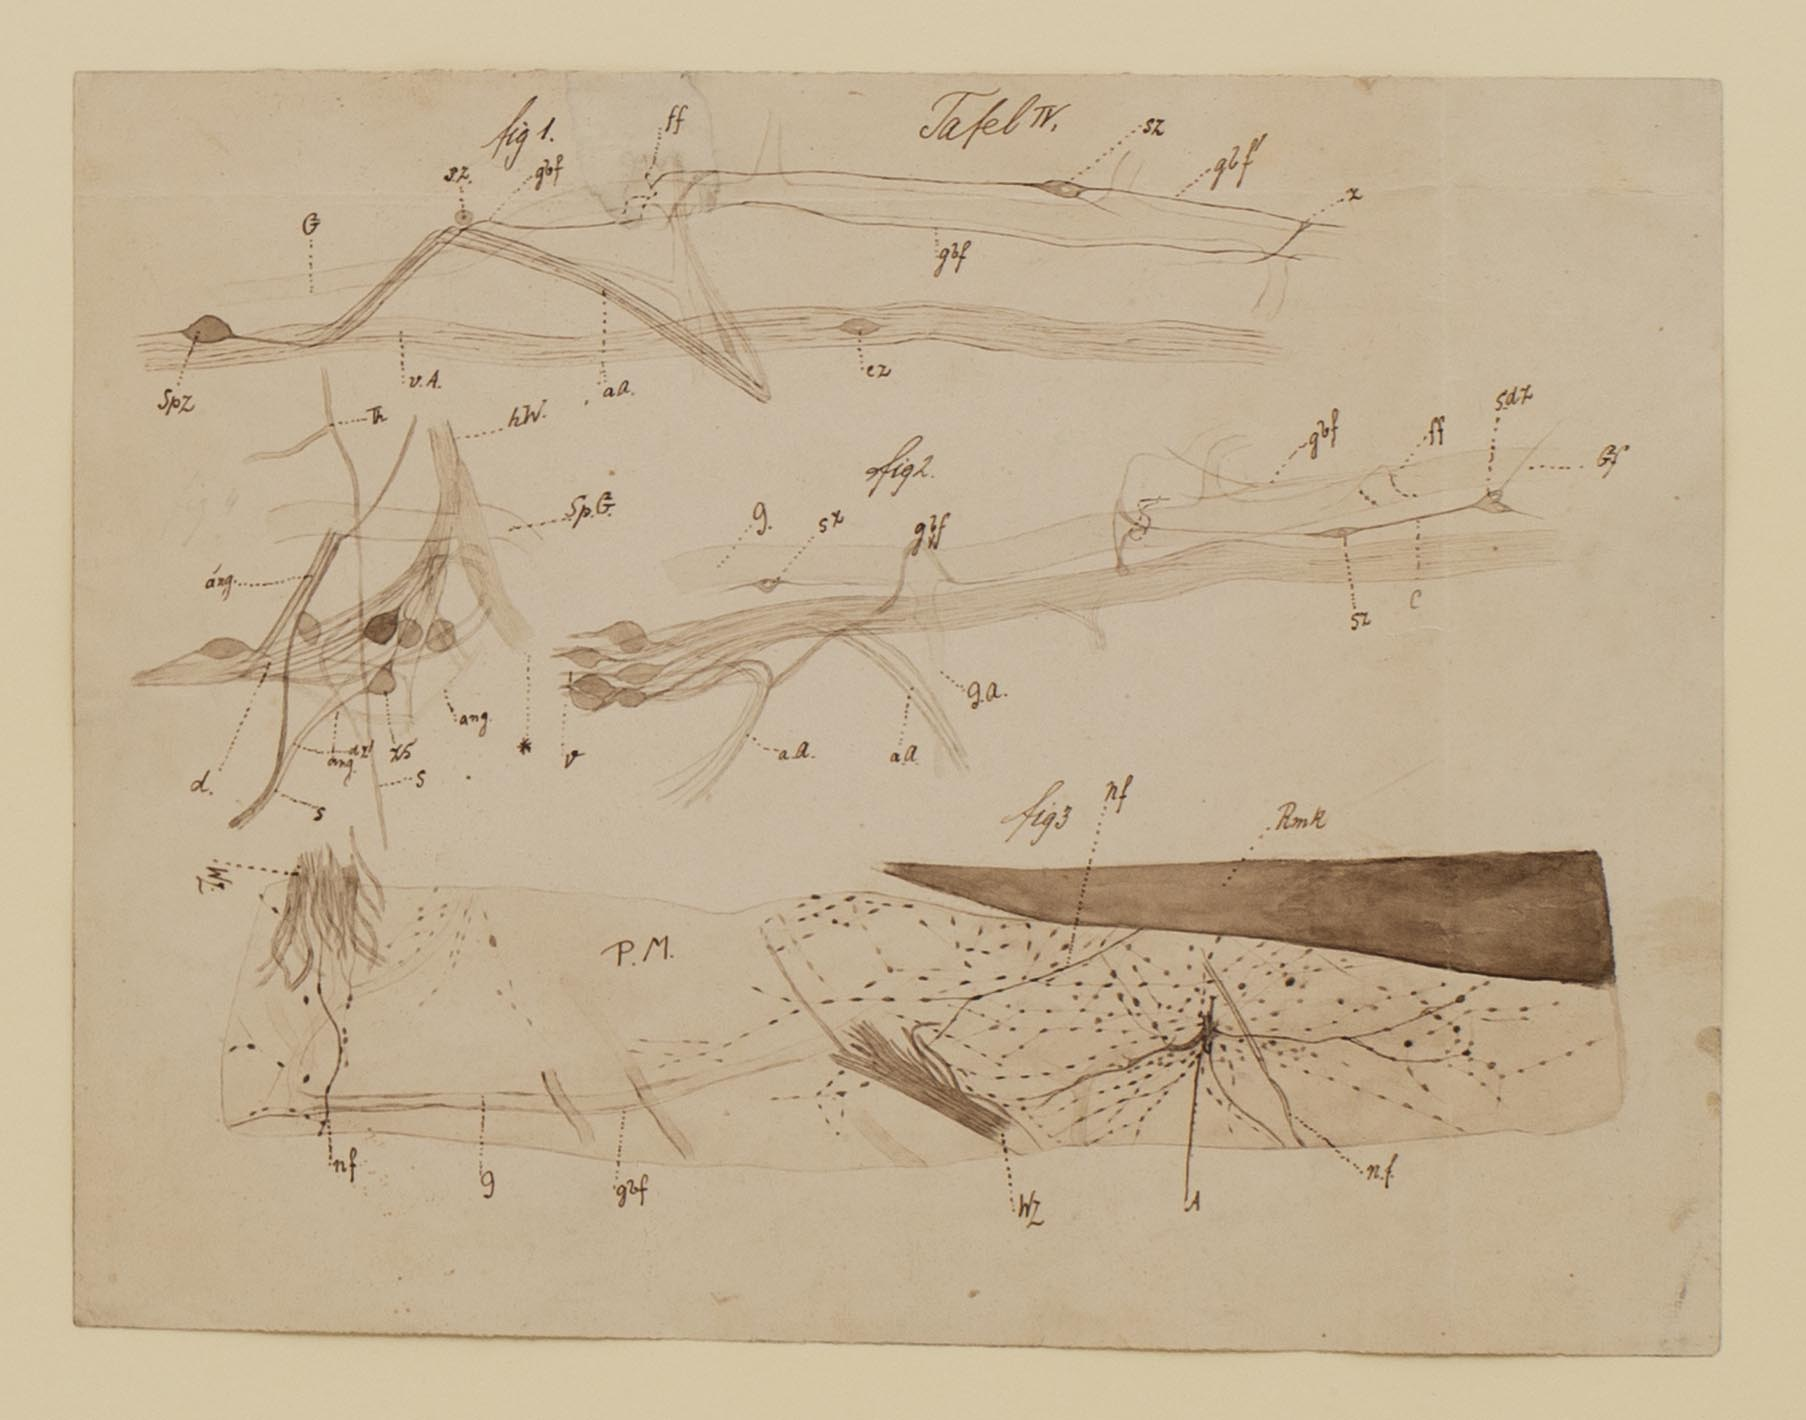
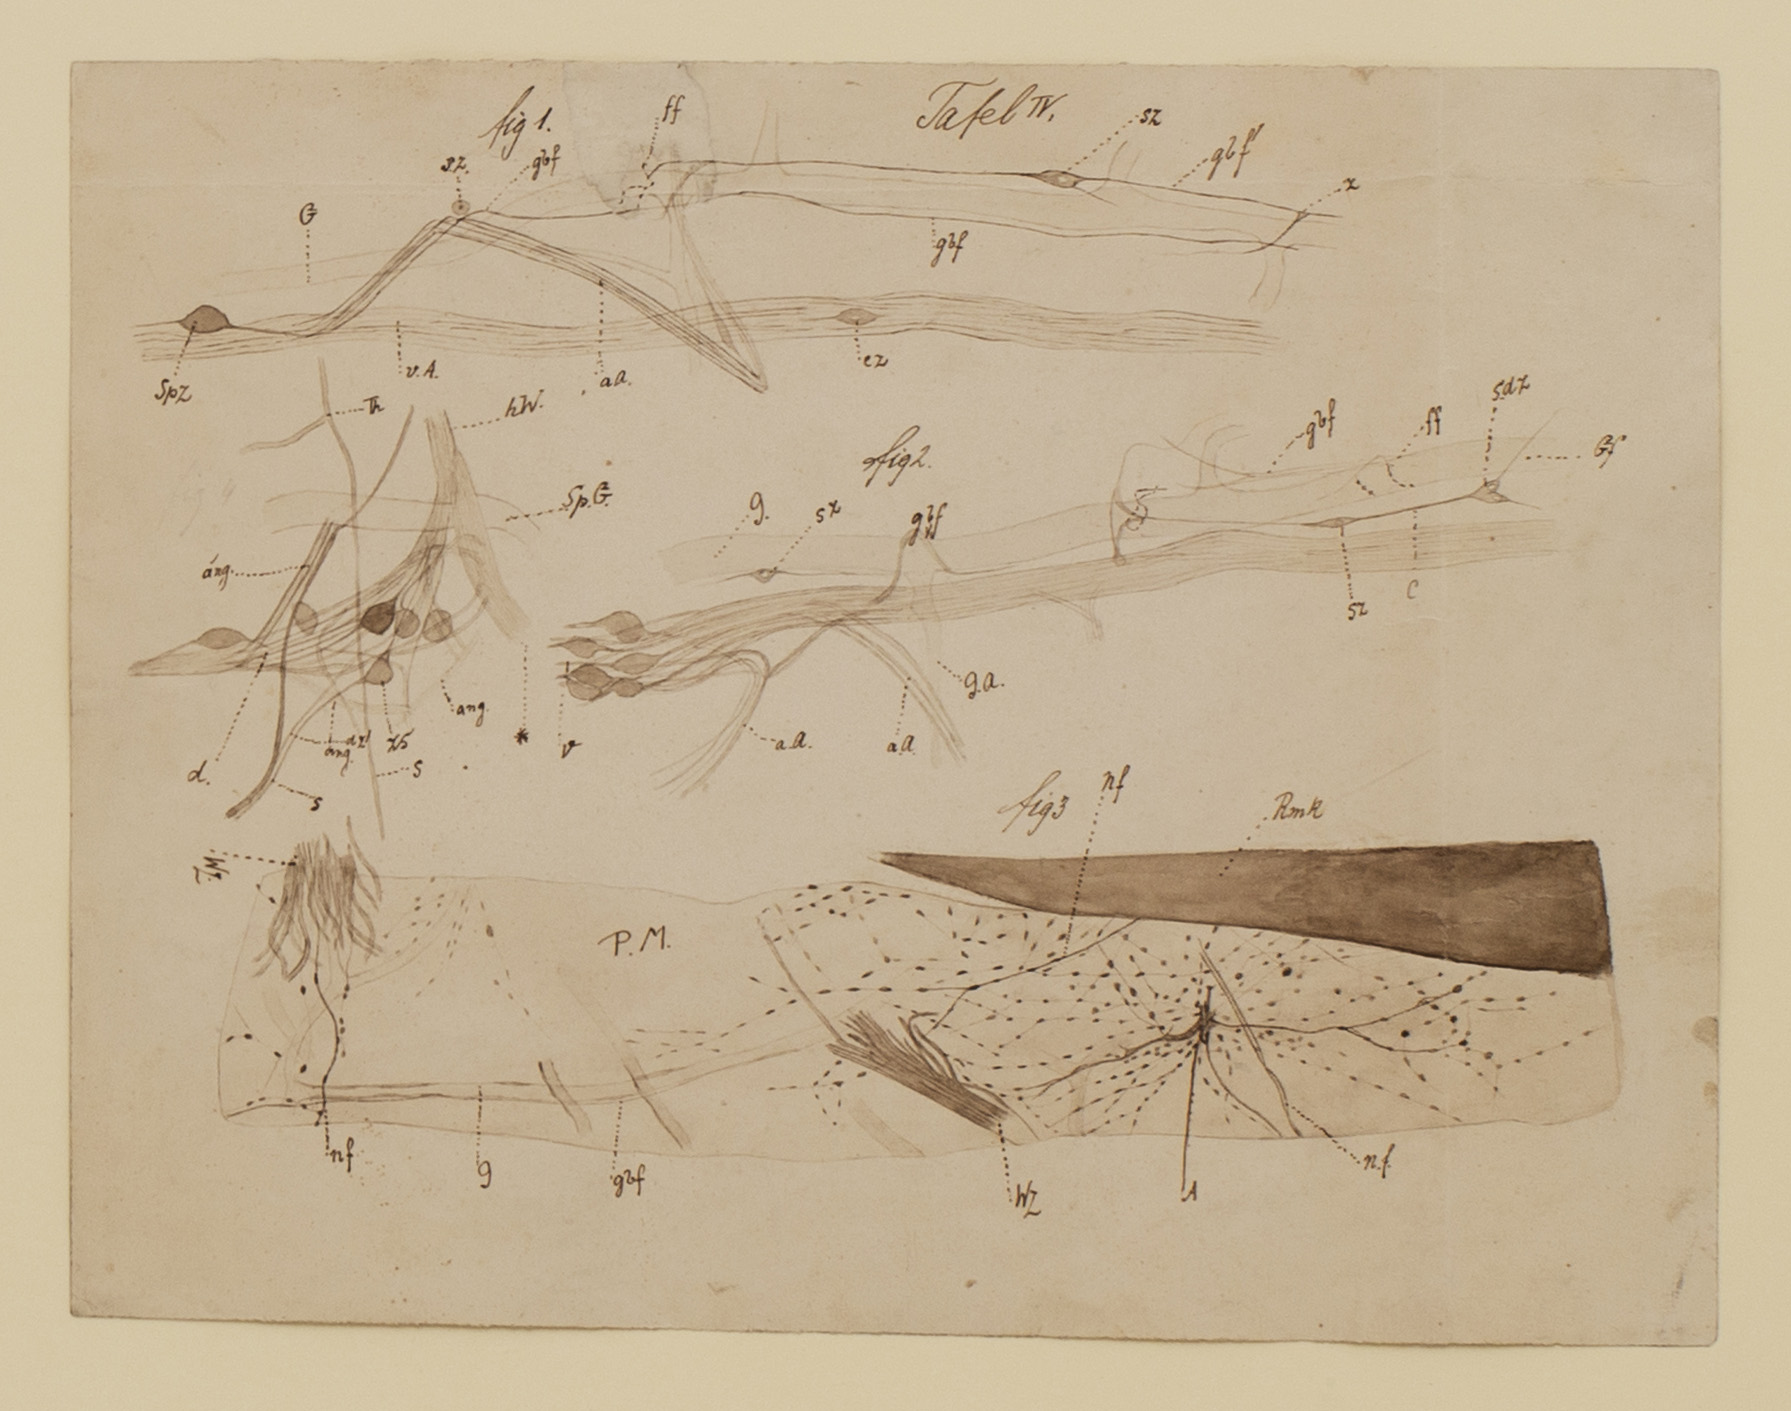
Added keyimage 4 & cleaned upp
put callouts in the right place. Changed font & tweaked color background on image box. Re-compressed jpeg at higher quality. General clean up

diff --git a/test-scroll-2/keyimage_4.html b/test-scroll-2/keyimage_4.html
@@ -1,0 +1,172 @@
+<!DOCTYPE HTML>
+<html>
+	
+	<head>
+		<title>Key Image: The Petromyzon and the Riddle of the Eel, 1876</title>
+		<!-- General stylesheet - include for each one -->
+		<link rel="stylesheet" href="css/shared.css" type="text/css" media="screen" />
+		<!-- styles for this page -->
+		<link rel="stylesheet" href="css/keyimage_4.css" type="text/css" media="screen" />
+		<!-- jquery library -->
+		<script src="https://ajax.googleapis.com/ajax/libs/jquery/1.9.1/jquery.min.js" type="text/javascript"></script>
+		<!-- zoomooz library -->
+		<script type="text/javascript" src="js/jquery.zoomooz.min.js"></script>
+	</head>
+
+	<body>
+		<div class='container'>
+		    <div class="zoomViewport">
+				<div id="container" class="zoomContainer">
+					<!-- these divs are the clickable parts of the drawing. make sure that the data-index of the zoomTarget matches the data-index of the caption. Also, the next/previous buttons go in order.
+					note: add 'data-debug=true' if you want the red boxes to appear for debugging. -->
+	        <div class="zoomTarget" data-index="1"></div>
+			<div class="zoomTarget" data-index="2"></div>
+			<div class="zoomTarget" data-index="3"></div>
+			<div class="zoomTarget" data-index="4"></div>
+			<div class="zoomTarget" data-index="5"></div>
+			<div class="zoomTarget" data-index="6"></div>
+			<div class="zoomTarget" data-index="7"></div>
+			<div class="zoomTarget" data-index="8"></div>
+			<div class="zoomTarget" data-index="9"></div>
+			<div class="zoomTarget" data-index="10"></div>
+					
+					<!-- drawing goes here -->
+          <img id="drawing" src="images/keyimage_4.jpg">	    
+				</div>
+		    </div>
+		</div>
+		<div class="sidebar">
+			<div class='caption'>
+				<div class='title'>
+					<h1>The Petromyzon and the Riddle of the Eel</h1>
+					<h2>1876</h2>	
+				</div>
+			</div>
+			
+			
+			<div class="caption" data-index="1">
+				<p>The drawing is an aggregate of various cross-sections and staining of the <i>Petromyzon</i>.</p>
+			</div>
+			<div class="caption" data-index="2">
+				<p>In Figure 1, we see a posterior view of the <i>Petromyzon's</i> nerves.</p>
+			</div>
+			<div class="caption" data-index="3">
+				<p>The spinal ganglionic cell (<i>spz</i>), an archaic aggregation of nerve cells, is located in the left corner.</p>
+			</div>
+			<div class="caption" data-index="4">
+				<p>Freud includes many elements of the nervous system, while following one nerve fiber as it accompanies a microscopic blood vessel (<i>gbf</i>).</p>
+			</div>
+			<div class="caption" data-index="5">
+				<p>Freud also illustrates a varicose axon of a nerve cell (<i>ff</i>), a part of a nerve fiber not coated with any other cells, and thus with a lower conductivity level. </p>
+			</div>
+			<div class="caption" data-index="6">
+				<p>The capacity to see nerve cells with such a high level of precision was one of the most novel elements in nerve histology and was the result of a staining technique developed by the Spanish neurobiologist Cajal. </p>
+			</div>
+			<div class="caption" data-index="7">
+				<p>Figure 2 depicts a different branch of the posterior root of the spinal ganglion of the <i>Petromyzon</i>. </p>
+			</div>
+			<div class="caption" data-index="8">
+				<p>Of particular note are the black elements, marked as <i>zs</i>, representing spinal ganglion cells firing into the sympathetic branch of the <i>Petromyzon</i>'s nerve system.</p>
+			</div>
+			<div class="caption" data-index="9">
+				<p>On the bottom of the drawing, Figure&nbsp;3 shows a network of nerve cells attached to the <i>pia mater</i>, one of the nerve's <i>meninges</i>, or coating, marked in drawing as <i>PM</i>.</p>
+			</div>
+			<div class="caption" data-index="10">
+				<p>On both the right and left hand side, branches of nerve fibers (<i>nf</i>) spread out of the spinal cord (marked <i>Rmk</i>) through a larger plexus of nerve fibers (<i>A</i>).</p>
+			
+
+			<!-- just got rid of the navigation for now. -->
+			<!-- <div id="navigation">
+				<div id="prev" class="zoomButton" data-type="prev" data-root=".zoomViewport">&lt;</div>
+				<div id="next" class="zoomButton" data-type="next" data-root=".zoomViewport">&gt;</div>
+			</div> -->
+			
+	
+		
+			
+			
+			
+			
+		</div> 
+		
+			<!-- put in a link to get out of interactive  -->		
+			<center><div id="link">	<a href="https://scholar.harvard.edu/agriswold/freud-interactives">Return</a></center>
+		    </p>	</center>				
+		      
+	</body>
+	<script>
+
+		// declare some variables
+		var width;
+		var height;
+		var caption;
+
+		// This function makes the zoom viewport the same size as the drawing. It also calculates the height of the window, which we'll use when we're detecting the scroll.
+		function size() {
+			width = $("#drawing").width();
+			height = $("#drawing").height();
+			console.log("width =" + width);
+			console.log("height =" + height);
+
+			$('.zoomViewport').height(height);
+			$('.zoomViewport').width(width);
+		}
+
+		// and whenever the window is resized.
+		$(window).resize(function(){
+			size();
+			getValues();
+		});
+
+		// make an array with the position of the top and bottom of each caption div.
+		var values = [];
+		function getValues() {
+			$('.caption').each(function(i) {
+				var pTop = $(this).offset().top;
+				var pBottom = $(this).height() + pTop;
+				console.log(i +" pTop= "+ pTop+" pBot= "+pBottom);
+				values.push({pTop, pBottom});
+			});
+		}
+
+		// figre out which caption is the one you're in, by comparing how far you've scrolled down the page to the values in the array created by getValues.
+		function getCaption(scrollY) {
+			var indexToReturn = 0;
+			for (i = 0; i < values.length; i++) {
+				if (scrollY >= values[i].pTop && scrollY < values[i].pBottom){
+					// console.log(i);
+					indexToReturn = i;
+				}
+			}
+			return indexToReturn;
+		}
+		
+		function setupScrollEvents() {
+			// when the sidebar scrolls, figure out which caption it is and trigger a click on that zoom target.
+			$('.sidebar').scroll(function() {
+				// calculate the amount you've scrolled down the page
+				var scroll_amt = $(this).scrollTop()+ $(this).offset().top
+				console.log(scroll_amt);
+				// pass that to the getCaption variable
+				caption = getCaption(scroll_amt);
+				console.log(caption);
+
+				// now, simulate clicking on the right zoomTarget. If you're back to the beginning, click to zoom out.
+				if (caption == 0) {
+					$('.zoomViewport').trigger("click");
+				} else {
+					$('.zoomTarget[data-index="' + caption + '"]').trigger("click");
+				}
+			});
+		}
+
+		// do these things when the page loads.
+		$(document).ready(function(){
+			size();
+			getValues();
+			setupScrollEvents();
+		});
+
+	</script>
+</html>
+	

diff --git a/test-scroll-2/css/keyimage_4.css b/test-scroll-2/css/keyimage_4.css
@@ -1,0 +1,98 @@
+
+/* note changed bkg of zoomViewport on this page to match faded drawing */
+.zoomViewport {
+	background-color:rgb(216,202,173);
+}
+
+
+
+/*This file has the positions of the zoomTarget(s) for each image.*/
+.zoomTarget[data-index="1"] {
+    position:absolute;
+    left: 10%;
+    top: 15%;
+    width: 75%;
+    height: 75%;
+    /* border:1px solid pink; */
+}
+
+.zoomTarget[data-index="2"] {
+    position:absolute;
+    left: 7%;
+    top: 5%;
+    width: 60%;
+    height: 22%;
+    /* border:1px solid red; */
+}
+
+.zoomTarget[data-index="3"] {
+    position:absolute;
+    top: 10%;
+    left: 7%;
+    width: 14%;
+    height: 20%;
+    /* border:1px solid green; */
+}
+
+.zoomTarget[data-index="4"] {
+    position:absolute;
+    top: 5%;
+    left: 7%;
+    width: 70%;
+    height: 25%;
+    /* border:1px solid blue; */
+}
+
+.zoomTarget[data-index="5"] {
+    position:absolute;
+    top: 21%;
+    left: 65%;
+    width: 30%;
+    height: 20%;
+    /* border:1px solid lime; */
+}
+
+.zoomTarget[data-index="6"] {
+    position:absolute;
+    top: 10%;
+    left: 10%;
+    width: 80%;
+    height: 80%;
+    /* border:1px solid black; */
+}
+
+.zoomTarget[data-index="7"] {
+    position:absolute;
+    top: 28%;
+    left: 15%;
+    width: 55%;
+    height: 28%;
+    /* border:1px solid white; */
+}
+
+.zoomTarget[data-index="8"] {
+    position:absolute;
+    top: 34%;
+    left: 15%;
+    width: 12%;
+    height: 24%;
+/*  border:1px solid orange; */
+}
+
+.zoomTarget[data-index="9"] {
+    position:absolute;
+    top: 7%;
+    left: 7%;
+    width: 85%;
+    height: 85%;
+    /* border:1px solid violet; */
+}
+
+.zoomTarget[data-index="10"] {
+    position:absolute;
+    top: 55%;
+    left: 45%;
+    width: 40%;
+    height: 30%;
+    /* border:1px solid grey; */
+}

diff --git a/test-scroll-2/css/shared.css b/test-scroll-2/css/shared.css
@@ -54,6 +54,7 @@ img {
 /*style caption here*/
 .caption {
 	font-size:20px;
+	font-family: Avenir, Arial, Helvetica, sans-serif;
     height:80vh ;
     display: flex;
     flex-direction:row;
@@ -63,6 +64,7 @@ img {
 
 /*this is the first slide, where it says the name of artwork + author.*/
 .title {
+    font-family: Avenir, Arial, Helvetica, sans-serif;
     text-align:center;
     align-self: center;
     width: 100%;
@@ -101,20 +103,20 @@ img {
     width:150px;
     height:50px;
     border:1px solid #eee;
-    /*background-color:#dca;*/
+    background-color:#ddd;
     color: #aaa;;
     z-index:2;
-    font-size:30px;
+    font-size:20px;
     line-height:45px;
     text-align:center;
-    font-family:Helvetica, sans-serif;
+    font-family: Avenir, Arial, Helvetica, sans-serif;
     cursor:pointer;
     cursor:hand;
 }
 
 #link:hover {
-    /*background-color:#ba9;*/
-    border: 1px solid #999;
+    background-color:#bbb;
+    border: 2px solid #999;
 }
 
 #navigation {
